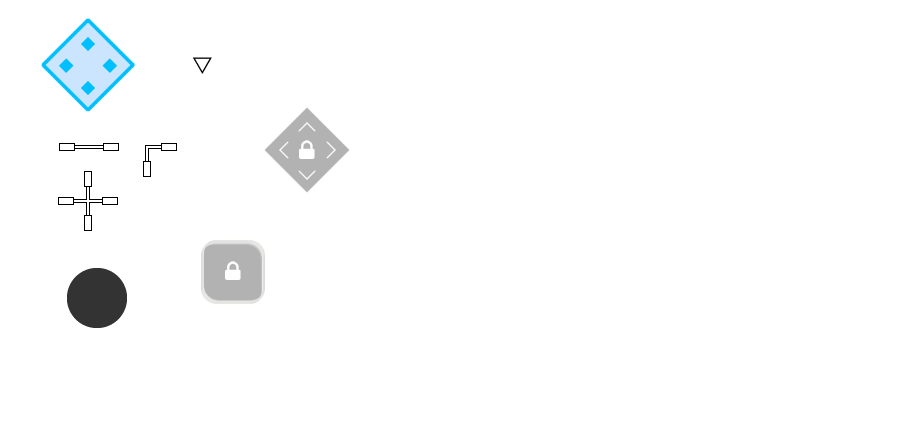
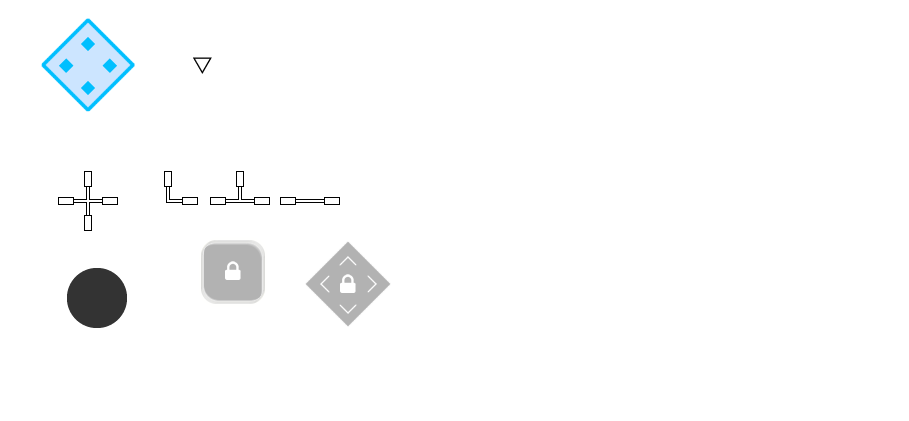
添加各种连接通道节点

diff --git a/Assets/Scripts/TConnectionNode.cs b/Assets/Scripts/TConnectionNode.cs
@@ -1,0 +1,51 @@
+using System.Collections;
+using System.Collections.Generic;
+using NUnit.Framework;
+using UnityEngine;
+
+namespace NetworkBypass
+{ 
+	public class TConnectionNode : ConnectionNode
+	{
+		protected override void ResetRotation()
+		{
+			base.ResetRotation();
+			// T上
+			if (RotateState == ERotateState.Up)
+			{
+				bool hasInput = HasInputFrom(Direction.Left) || HasInputFrom(Direction.Up) || HasInputFrom(Direction.Right);
+				SetOutput(Direction.Up, hasInput);
+				SetOutput(Direction.Right, hasInput);
+				SetOutput(Direction.Down, false);
+				SetOutput(Direction.Left, hasInput);
+			}
+			// T右
+			else if (RotateState == ERotateState.Right)
+			{
+				bool hasInput = HasInputFrom(Direction.Up) || HasInputFrom(Direction.Right) || HasInputFrom(Direction.Down);
+				SetOutput(Direction.Up, hasInput);
+				SetOutput(Direction.Right, hasInput);
+				SetOutput(Direction.Down, hasInput);
+				SetOutput(Direction.Left, false);
+			}
+			// T下
+			else if (RotateState == ERotateState.Down)
+			{
+				bool hasInput = HasInputFrom(Direction.Right) || HasInputFrom(Direction.Down) || HasInputFrom(Direction.Left);
+				SetOutput(Direction.Up, false);
+				SetOutput(Direction.Right, hasInput);
+				SetOutput(Direction.Down, hasInput);
+				SetOutput(Direction.Left, hasInput);
+			}
+			// T左
+			else if (RotateState == ERotateState.Left)
+			{
+				bool hasInput = HasInputFrom(Direction.Down) || HasInputFrom(Direction.Left) || HasInputFrom(Direction.Up);
+				SetOutput(Direction.Up, hasInput);
+				SetOutput(Direction.Right, false);
+				SetOutput(Direction.Down, hasInput);
+				SetOutput(Direction.Left, hasInput);
+			}
+		}
+	}
+}

diff --git a/Assets/Scripts/RightAngleConnectionNode.cs b/Assets/Scripts/RightAngleConnectionNode.cs
@@ -1,0 +1,51 @@
+using System.Collections;
+using System.Collections.Generic;
+using NUnit.Framework;
+using UnityEngine;
+
+namespace NetworkBypass
+{ 
+	public class RightAngleConnectionNode : ConnectionNode
+	{
+		protected override void ResetRotation()
+		{
+			base.ResetRotation();
+			// 右上
+			if (RotateState == ERotateState.Up)
+			{
+				bool hasTopRightInput = HasInputFrom(Direction.Up) || HasInputFrom(Direction.Right);
+				SetOutput(Direction.Up, hasTopRightInput);
+				SetOutput(Direction.Right, hasTopRightInput);
+				SetOutput(Direction.Down, false);
+				SetOutput(Direction.Left, false);
+			}
+			// 右下
+			else if (RotateState == ERotateState.Right)
+			{
+				bool hasBottomRightInput = HasInputFrom(Direction.Right) || HasInputFrom(Direction.Down);
+				SetOutput(Direction.Up, false);
+				SetOutput(Direction.Right, hasBottomRightInput);
+				SetOutput(Direction.Down, hasBottomRightInput);
+				SetOutput(Direction.Left, false);
+			}
+			// 左下
+			else if (RotateState == ERotateState.Down)
+			{
+				bool hasBottomLeftInput = HasInputFrom(Direction.Down) || HasInputFrom(Direction.Left);
+				SetOutput(Direction.Up, false);
+				SetOutput(Direction.Right, false);
+				SetOutput(Direction.Down, hasBottomLeftInput);
+				SetOutput(Direction.Left, hasBottomLeftInput);
+			}
+			// 左上
+			else if (RotateState == ERotateState.Left)
+			{
+				bool hasTopLeftInput = HasInputFrom(Direction.Up) || HasInputFrom(Direction.Left);
+				SetOutput(Direction.Up, hasTopLeftInput);
+				SetOutput(Direction.Right, false);
+				SetOutput(Direction.Down, false);
+				SetOutput(Direction.Left, hasTopLeftInput);
+			}
+		}
+	}
+}

diff --git a/Assets/Scripts/NetworkNode.cs b/Assets/Scripts/NetworkNode.cs
@@ -17,6 +17,7 @@ namespace NetworkBypass
 
         public event EventHandler OnFocus;
         public event EventHandler OnClick;
+        public event EventHandler OnDataChanged;
 
         [HideInInspector] public NetworkNode[] Neighbors = {null, null, null, null};
         [HideInInspector] public NetworkFlow[] Flows = {null, null, null, null};
@@ -82,6 +83,11 @@ namespace NetworkBypass
         
         #region 工具方法
 
+        protected void NotifyDataChanged()
+        {
+            OnDataChanged(this, null);
+        }
+
         public NetworkNode GetNeighbor(Direction direction)
         {
             return Neighbors[(int) direction];
@@ -126,6 +132,18 @@ namespace NetworkBypass
             int i = (int) direction;
             return Outputs[i] && GetNeighbor(i) != null;
 //			return OutputUp != null && OutputUp.IsActive && Up != null;
+        }
+
+        public bool HasInputFrom(Direction direction)
+        {
+            int i = (int) direction;
+            return Inputs[i];
+        }
+
+        public void SetOutput(Direction direction, bool flag)
+        {
+            int i = (int) direction;
+            Outputs[i] = flag;
         }
 
         public static Direction GetOppositeDirection(Direction direction)

diff --git a/Assets/Scripts/StraightConnectionNode.cs b/Assets/Scripts/StraightConnectionNode.cs
@@ -1,0 +1,33 @@
+using System.Collections;
+using System.Collections.Generic;
+using NUnit.Framework;
+using UnityEngine;
+
+namespace NetworkBypass
+{ 
+	public class StraightConnectionNode : ConnectionNode
+	{
+		protected override void ResetRotation()
+		{
+			base.ResetRotation();
+			// 横向
+			if (RotateState == ERotateState.Up || RotateState == ERotateState.Down)
+			{
+				bool hasHorizontalInput = HasInputFrom(Direction.Left) || HasInputFrom(Direction.Right);
+				SetOutput(Direction.Left, hasHorizontalInput);
+				SetOutput(Direction.Right, hasHorizontalInput);
+				SetOutput(Direction.Up, false);
+				SetOutput(Direction.Down, false);
+			}
+			// 纵向
+			else
+			{
+				bool hasVerticalInput = HasInputFrom(Direction.Up) || HasInputFrom(Direction.Down);
+				SetOutput(Direction.Left, false);
+				SetOutput(Direction.Right, false);
+				SetOutput(Direction.Up, hasVerticalInput);
+				SetOutput(Direction.Down, hasVerticalInput);
+			}
+		}
+	}
+}

diff --git a/Assets/Scripts/ConnectionNode.cs b/Assets/Scripts/ConnectionNode.cs
@@ -1,0 +1,45 @@
+using System;
+using System.Collections;
+using System.Collections.Generic;
+using UnityEngine;
+
+namespace NetworkBypass
+{
+	public abstract class ConnectionNode : NetworkNode
+	{
+		public enum ERotateState
+		{
+			Up = 0,
+			Right = 1,
+			Down = 2,
+			Left = 3
+		}
+
+		public ERotateState RotateState = ERotateState.Up;
+
+		protected override void Init()
+		{
+			base.Init();
+			ResetRotation();
+		}
+
+		public override void Execute()
+		{
+			base.Execute();
+			Rotate();
+			NotifyDataChanged();
+		}
+		
+		private void Rotate()
+		{
+			int index = ((int) RotateState + 1) % 4;
+			RotateState = (ERotateState) index;
+			ResetRotation();
+		}
+
+		protected virtual void ResetRotation()
+		{
+			Sprite.transform.eulerAngles = new Vector3(0, 0, (int) RotateState * 90);
+		}
+	}
+}

diff --git a/Assets/Scripts/NetworkBypassController.cs b/Assets/Scripts/NetworkBypassController.cs
@@ -2,7 +2,6 @@
 using System.Collections;
 using System.Collections.Generic;
 using UnityEngine;
-using UnityEngine.UI;
 
 namespace NetworkBypass
 {
@@ -38,6 +37,7 @@ namespace NetworkBypass
             node.OnClick += OnNodeClick;
             node.OnFocus += (go, e) => { debugGUIText = go != null ? 
                 "Hover " + go : string.Empty; };
+            node.OnDataChanged += OnNodeDataChanged;
         }
 
         void OnGUI()
@@ -138,6 +138,11 @@ namespace NetworkBypass
             NetworkNode node = obj as NetworkNode;
             debugGUIText = "Click " + node.name;
             node.Execute();
+        }
+
+        private void OnNodeDataChanged(object obj, EventArgs e)
+        {
+            TraverseNetwork();
         }
     }
 }

diff --git a/Assets/Scripts/CrossConnectionNode.cs b/Assets/Scripts/CrossConnectionNode.cs
@@ -1,0 +1,21 @@
+using System.Collections;
+using System.Collections.Generic;
+using NUnit.Framework;
+using UnityEngine;
+
+namespace NetworkBypass
+{ 
+	public class CrossConnectionNode : ConnectionNode
+	{
+		protected override void ResetRotation()
+		{
+			base.ResetRotation();
+			bool hasInput = HasInputFrom(Direction.Up) || HasInputFrom(Direction.Right) || 
+			                HasInputFrom(Direction.Down) || HasInputFrom(Direction.Left);
+			SetOutput(Direction.Up, hasInput);
+			SetOutput(Direction.Right, hasInput);
+			SetOutput(Direction.Down, hasInput);
+			SetOutput(Direction.Left, hasInput);
+		}
+	}
+}
